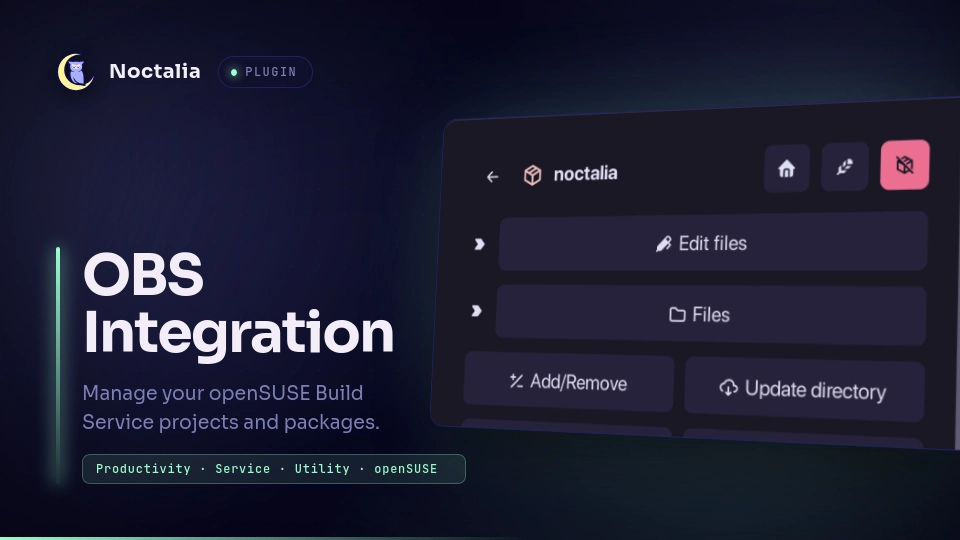
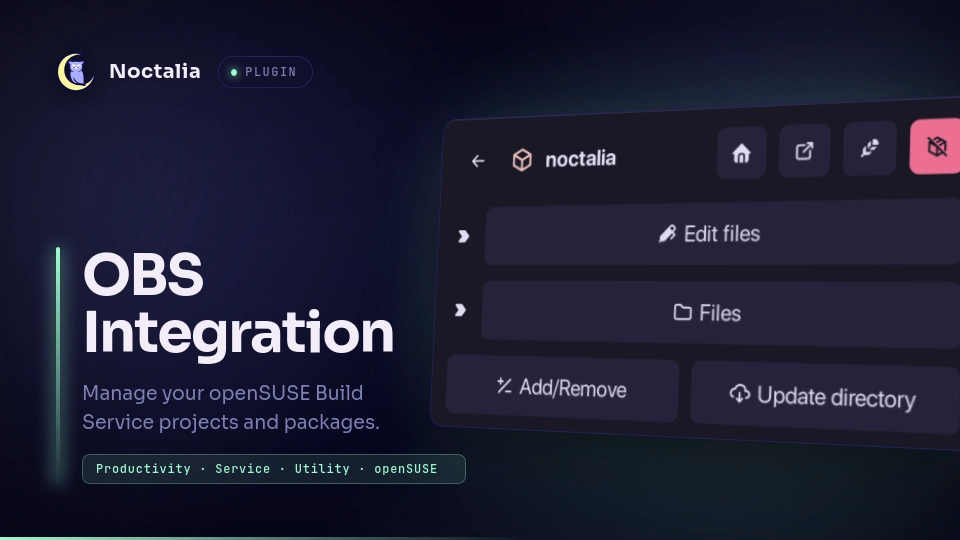
feat(obs-integration): add sticky background service indicator (#415)
* feat(obs-integration): add sticky background service indicator

* feat(obs-integration): add build status view and sticky service indicators

* docs(obs-integration): update README

* chore(obs-integration): new thumbnail

* chore(obs-integration): panel position, height, width changes & bump version up

* fix(obs-integration): "top" to "top_center" in plugin.toml

---------

diff --git a/obs-integration/README.md b/obs-integration/README.md
@@ -27,8 +27,8 @@ operation, so all authentication stays in your normal OBS configuration.
 
 The panel opens on **My Projects**: every project you maintain, plus every
 project where you are listed as a package maintainer on OBS. Search filters the
-list, and the sort button toggles A-Z / Z-A order. The pen icon edits the
-project metadata (`osc meta prj -e`).
+list, and the sort button toggles A-Z / Z-A order. The **pen** icon edits the
+project metadata (`osc meta prj -e`), and the **external link** icon opens the project page on OBS.
 
 ### Inside a project
 
@@ -60,6 +60,7 @@ its actions:
   server-side service runs, and a confirmation is not required.
 - **Rebuild package** — pick a repository and architecture (or **All**) and trigger `osc rebuild`. Confirmation is required before it runs.
 - **Build Status** — Shows real-time build results for the package across all repositories and architectures. Click **Refresh status** to pull latest results.
+- **Open in OBS** — Opens the package page in your browser.
 - **Edit package meta** — `osc meta pkg -e` in a terminal.
 - **Remove package** — deletes the checkout from disk only (never touches the
   OBS project); confirm before it runs. If it was the last package in the
